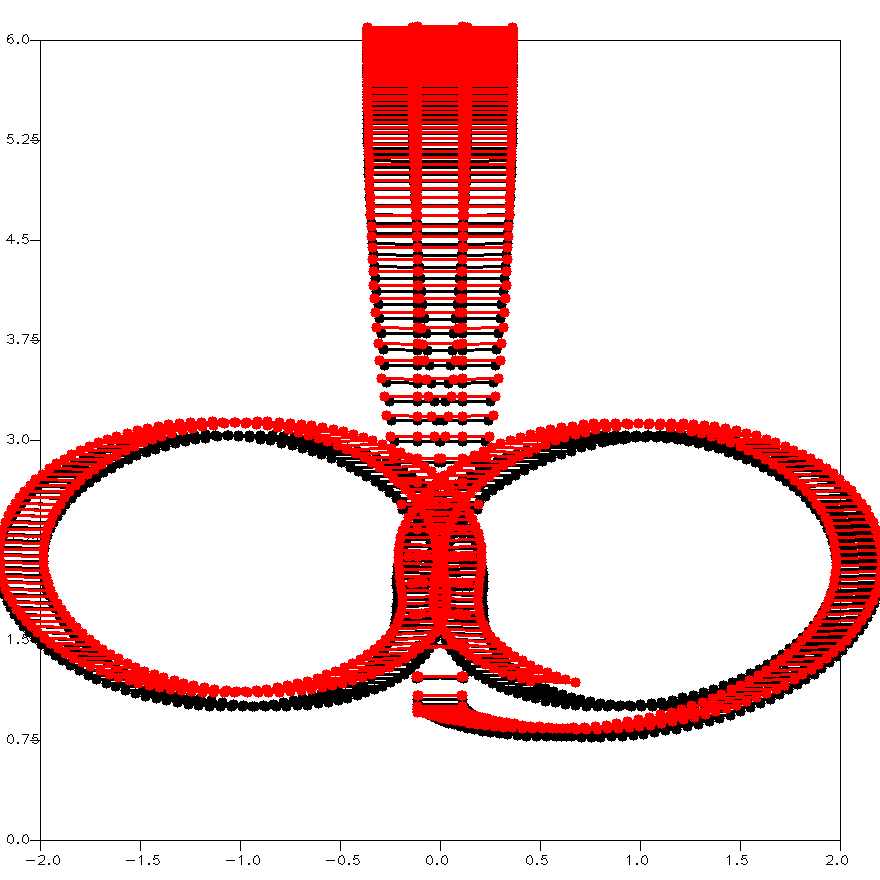
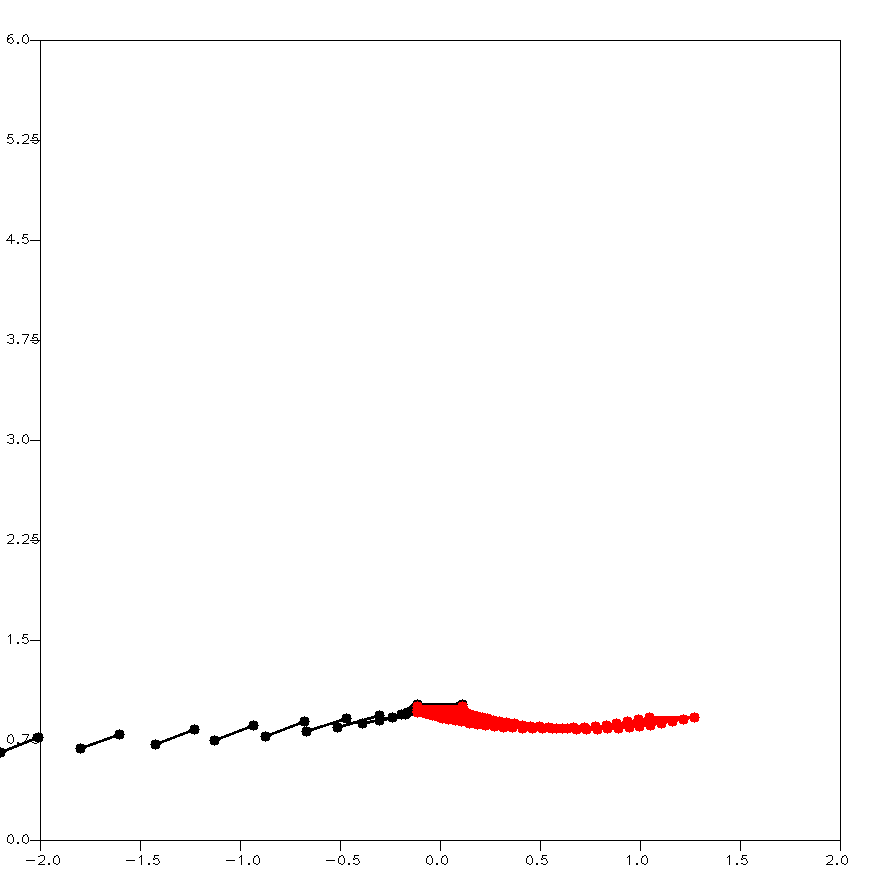
Added logging support | still needs comparison between runs | still needs manual -pitch for Ode

Changed region(s): [[0.0, 0.0, 1.0, 0.8591], [0.0, 0.8284, 0.0307, 0.8591]]

diff --git a/examples/crazyflie_constant_height.py b/examples/crazyflie_constant_height.py
@@ -29,7 +29,7 @@ if __name__ == "__main__":
     real_reset = False
     rate = 220  # 220?
     safe_rate = 220
-    max_steps = 300
+    max_steps = 1000
 
     # Initialize empty graph
     graph = Graph.create()
@@ -42,7 +42,7 @@ if __name__ == "__main__":
     validate_pid = eagerx.Node.make("ValidatePID", "validate_pid", rate=48)
 
     # - - - - - - - CHOOSE ENGINE MODE HERE - - - - - - -
-    engine_mode = "Pybullet"  # choose between Pybullet and Ode (bridge select)
+    # engine_mode = "Pybullet"  # choose between Pybullet and Ode (bridge select)
 
     if engine_mode == "Pybullet":
         # - - - - - - - PYBULLET START - - - - - - -
@@ -86,11 +86,12 @@ if __name__ == "__main__":
     # Add picture making node and EDIT CONFIGURATION
     make_picture = eagerx.Node.make(
         "MakePicture", "make_picture", rate,
-        save_render_image=True,
-        saveToPreviousRender=False,
-        renderColor="black", #choose between black, red, blue
-        axisToPlot="x", #choose between x, y
+        save_render_image=save_render_image,
+        saveToPreviousRender=saveToPreviousRender,
+        renderColor=renderColor, #choose between black, red, blue
+        axisToPlot=axisToPlot, #choose between x, y
         max_steps=max_steps,
+        engine_mode=engine_mode,
     )
     # Create agnostic graph
     graph.add([make_picture, crazyflie, validate_pid])
@@ -123,7 +124,6 @@ if __name__ == "__main__":
         # Connect target state we are resetting
         graph.connect(action="pwm_input", target=crazyflie.actuators)
 
-
     # Show in the gui
     # graph.gui()
     # graph.is_valid(plot=True)
@@ -144,11 +144,9 @@ if __name__ == "__main__":
             done = True
             info["TimeLimit.truncated"] = True
         else:
-            done = False | (np.linalg.norm(can[:2]) > 1.0)  # Can is out of reach
-            if done:
-                rwd = -50
+            done = False
         # done = done | (np.linalg.norm(goal - can) < 0.1 and can[2] < 0.05)  # Can has not fallen down & within threshold.
-        done = False
+        # done = False
         return obs, rwd, done, info
 
 
@@ -168,29 +166,25 @@ if __name__ == "__main__":
 
         return states
 
-
     # Initialize Environment
     env = EagerxEnv(name="rx", rate=rate, graph=graph, engine=engine, step_fn=step_fn, reset_fn=reset_fn, exclude=[])
 
     # First train in simulation
     # env.render("human")
 
-    # Create log object
-    log_data = Log(unique_file=False, rate=rate)
+    _, done = env.reset(), False
     # Evaluate
-    for run in [2, 1, 3]:
-        print(f"Episode {run}")
-        i = 0
-        _, done = env.reset(), False
-        # desired_altitude = 2
-        # desired_thrust_pid = PID(kp=0.2, ki=0.0001, kd=0.4, rate=rate)  # kp 10000 ki 50 kd 2500000
-        while not done:
 
-            action = env.action_space.sample()
-            # action["desired_attitude"][0] = 0  # Roll
-            # action["desired_attitude"][1] = 0  # Pitch
-            # action["desired_attitude"][2] = 0  # Yaw
-            # action["desired_height"] = np.array([desired_altitude])
-            action["desired_position"] = np.array([2, 0, 2])
-            obs, reward, done, info = env.step(action)
-            rgb = env.render("rgb_array")
+    # desired_altitude = 2
+    # desired_thrust_pid = PID(kp=0.2, ki=0.0001, kd=0.4, rate=rate)  # kp 10000 ki 50 kd 2500000
+    while not done:
+        action = env.action_space.sample()
+        # action["desired_attitude"][0] = 0  # Roll
+        # action["desired_attitude"][1] = 0  # Pitch
+        # action["desired_attitude"][2] = 0  # Yaw
+        # action["desired_height"] = np.array([desired_altitude])
+        action["desired_position"] = np.array([0, 0, 6])
+        obs, reward, done, info = env.step(action)
+        rgb = env.render("rgb_array")
+
+        log.add_data(position=obs["position"][0], orientation=obs["orientation"][0], run_id=run_id, rate=rate)

diff --git a/examples/autorun_crazyflie_constant_height_updated.py b/examples/autorun_crazyflie_constant_height_updated.py
@@ -7,6 +7,7 @@ import eagerx_pybullet  # Registers PybulletEngine # noqa # pylint: disable=unus
 import Crazyflie_Simulation  # Registers objects # noqa # pylint: disable=unused-import
 import eagerx_reality  # Registers Engine # noqa # pylint: disable=unused-import
 import Crazyflie_Simulation.solid.nodes
+from Crazyflie_Simulation.solid.log import Log
 from Crazyflie_Simulation.solid.pid import PID
 
 # Other
@@ -20,7 +21,7 @@ LOG_DIR = os.path.dirname(
     Crazyflie_Simulation.__file__) + f"/../logs/{NAME}_{datetime.today().strftime('%Y-%m-%d-%H%M')}"
 
 # todo: check the windows and rates
-def runEagerX(engine_mode, save_render_image, saveToPreviousRender, renderColor, axisToPlot):
+def runEagerX(engine_mode, save_render_image, saveToPreviousRender, renderColor, axisToPlot, run_id):
     if __name__ == "__main__":
         eagerx.initialize("eagerx_core", anonymous=True, log_level=eagerx.log.WARN)
 
@@ -28,7 +29,7 @@ def runEagerX(engine_mode, save_render_image, saveToPreviousRender, renderColor,
         real_reset = False
         rate = 220  # 220?
         safe_rate = 220
-        max_steps = 8000
+        max_steps = 1000
 
         # Initialize empty graph
         graph = Graph.create()
@@ -170,6 +171,7 @@ def runEagerX(engine_mode, save_render_image, saveToPreviousRender, renderColor,
 
         # First train in simulation
         # env.render("human")
+
         _, done = env.reset(), False
         # Evaluate
 
@@ -185,16 +187,27 @@ def runEagerX(engine_mode, save_render_image, saveToPreviousRender, renderColor,
             obs, reward, done, info = env.step(action)
             rgb = env.render("rgb_array")
 
+            log.add_data(position=obs["position"][0], orientation=obs["orientation"][0], run_id=run_id, rate=rate)
+
+
+
+log = Log(unique_file=False)
+
 #RUN
 axisToPlot = "x"
 runEagerX("Pybullet",  # first run
           save_render_image=True,
           saveToPreviousRender=False,
           renderColor="black",
-          axisToPlot=axisToPlot)
+          axisToPlot=axisToPlot,
+          run_id=1)
 # #
-# runEagerX("Ode",  # second run
-#           save_render_image=True,
-#           saveToPreviousRender=True,
-#           renderColor="red",
-#           axisToPlot=axisToPlot)
+
+runEagerX("Ode",  # second run
+          save_render_image=True,
+          saveToPreviousRender=True,
+          renderColor="red",
+          axisToPlot=axisToPlot,
+          run_id=2)
+
+log.save_to_csv()

diff --git a/Crazyflie_Simulation/solid/log.py b/Crazyflie_Simulation/solid/log.py
@@ -4,20 +4,20 @@ from time import localtime, strftime
 
 
 class Log:
-    def __init__(self, unique_file: bool, rate):
+    def __init__(self, unique_file: bool):
         self.unique_file = unique_file
-        self.rate = rate
-        self.dt = 1 / rate
-        self.directory = ""
+        self.rate = 0
+        self.directory = "../Crazyflie_Simulation/solid/Logging/"
         self.filename = "log.csv" if not unique_file else ("log" + strftime("-%H-%M-%S-%d%b%Y", localtime()) + ".csv")
         self.data = []
         self.i = 0
         self.runs = []
 
-    def add_data(self, position, orientation, run_id: int):
+    def add_data(self, position, orientation, run_id: int, rate: int):
         # position x, y, z
         # orientation roll, pitch, yaw
         # run -> should be a unique integer
+        self.rate = rate
 
         # Check if the run index is new
         if run_id not in self.runs:
